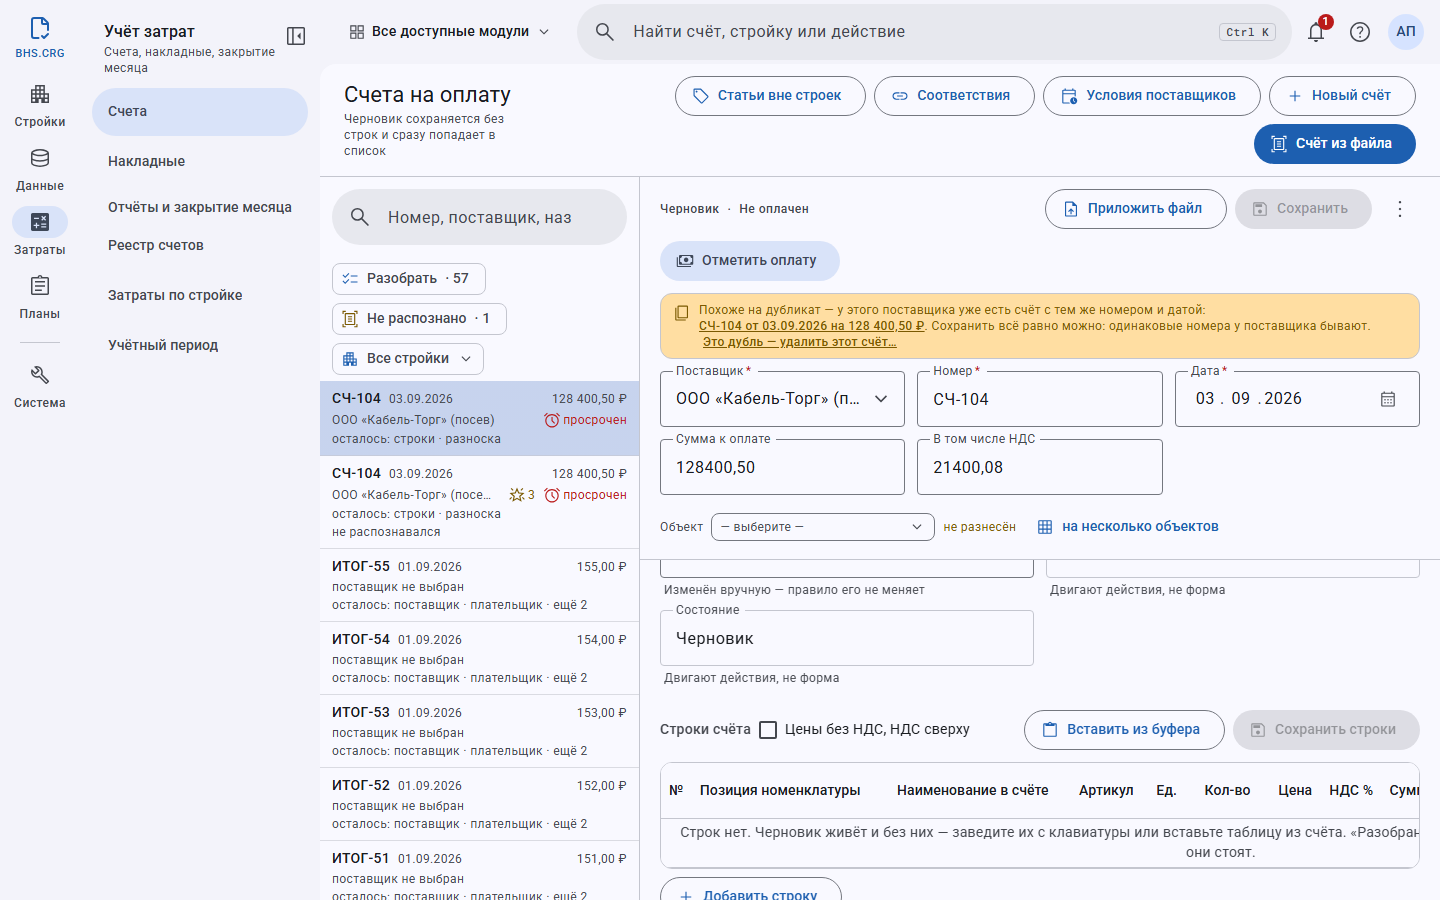
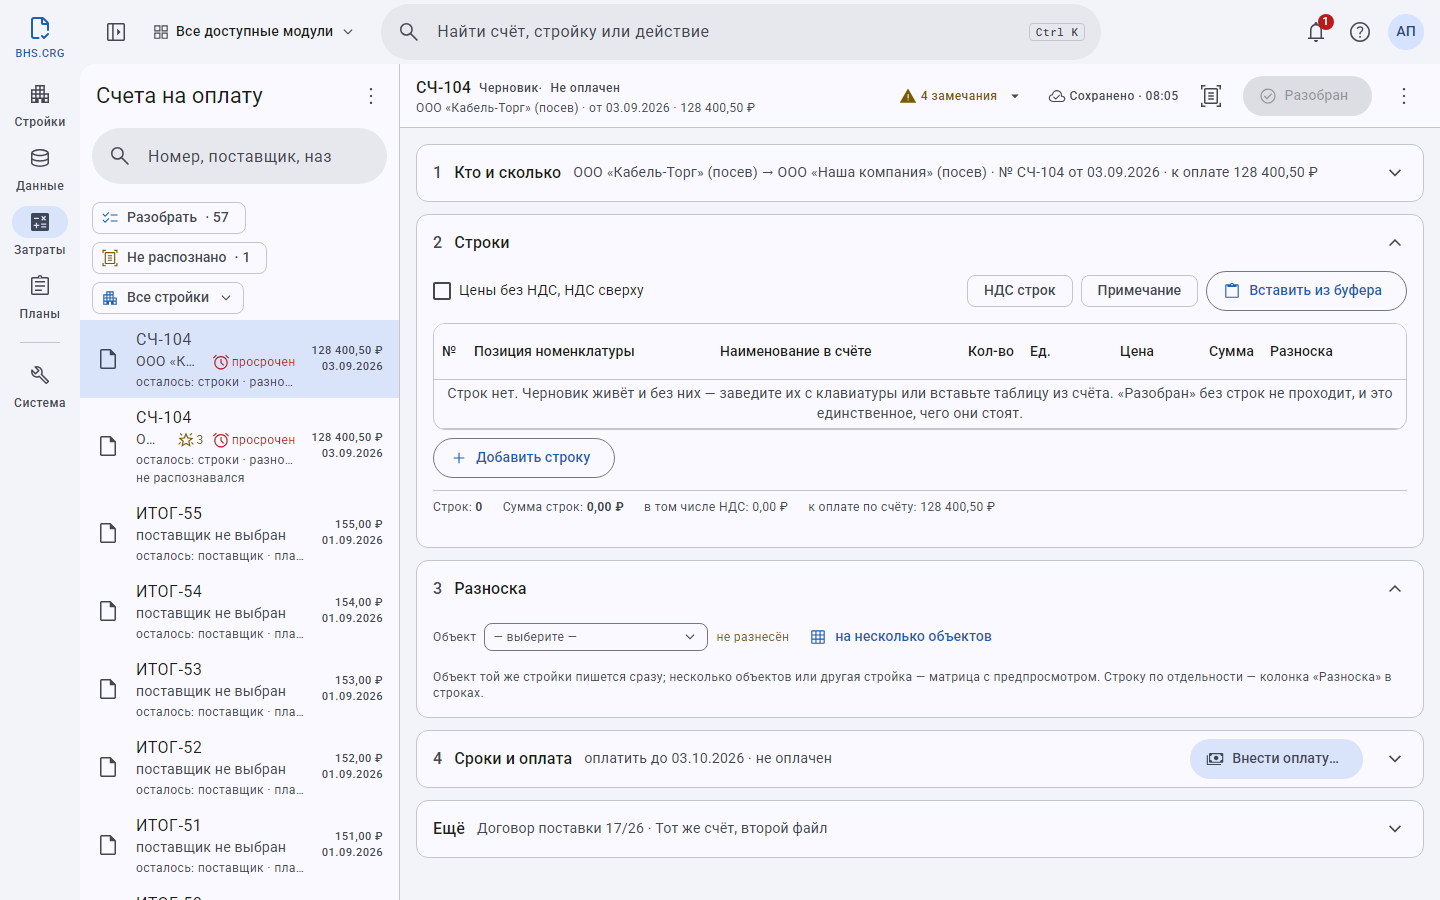
docs: снимок формы счёта с «Внести оплату…» в шапке «Сроки и оплата» [COST-4]
Прежний кадр u-invoice-lines.png показывал «Отметить оплату» и раскладку до
пересмотра экрана счёта. Переснят на чистом посеве стенда, 1440×900, светлая тема.

diff --git a/openspec/changes/costs-pay-action-label/tasks.md b/openspec/changes/costs-pay-action-label/tasks.md
@@ -15,7 +15,7 @@
   «Внести оплату» / «Внести оплату с переносом» в окне оплаты (`InvoicePayment.tsx`, `payLabel`);
   комментарии с цитатой подписи — туда же [COST-4] [COST-6.2]. Проверка — vitest:
   `paymentPosting.test.ts`, `invoicePrimary.test.ts`, `operationDialogs.test.tsx` с новыми подписями зелёные
-- [ ] 1.2 Живые прогоны: `costs-smoke`, `invoice-payment-smoke`, `invoices-smoke`,
+- [x] 1.2 Живые прогоны: `costs-smoke`, `invoice-payment-smoke`, `invoices-smoke`,
   `invoice-terms-collapse-checks` и `e2e/README.md` ищут кнопку по новой подписи (D4) [COST-4]. Проверка —
   эти прогоны зелёные на стенде; `grep -rn "Отметить оплату" src docs` пуст
 - [x] 1.3 Сервер (D2): описание права `costs.invoice.pay` (`CostsModule.cs`) и роли «Бухгалтер»
@@ -25,7 +25,7 @@
 
 ## 2. Документы
 
-- [ ] 2.1 `docs/USER_GUIDE.md` (оплата, сводка, «Сроки и оплата», отклонённый счёт) и `docs/ADMIN_GUIDE.md`
+- [x] 2.1 `docs/USER_GUIDE.md` (оплата, сводка, «Сроки и оплата», отклонённый счёт) и `docs/ADMIN_GUIDE.md`
   (права бухгалтера) — новая подпись; снимки с видимой кнопкой пересняты. Проверка — `grep` по
   «Отметить оплату» пуст; оглавление перестроено `npm run toc`, если менялись главы
 
